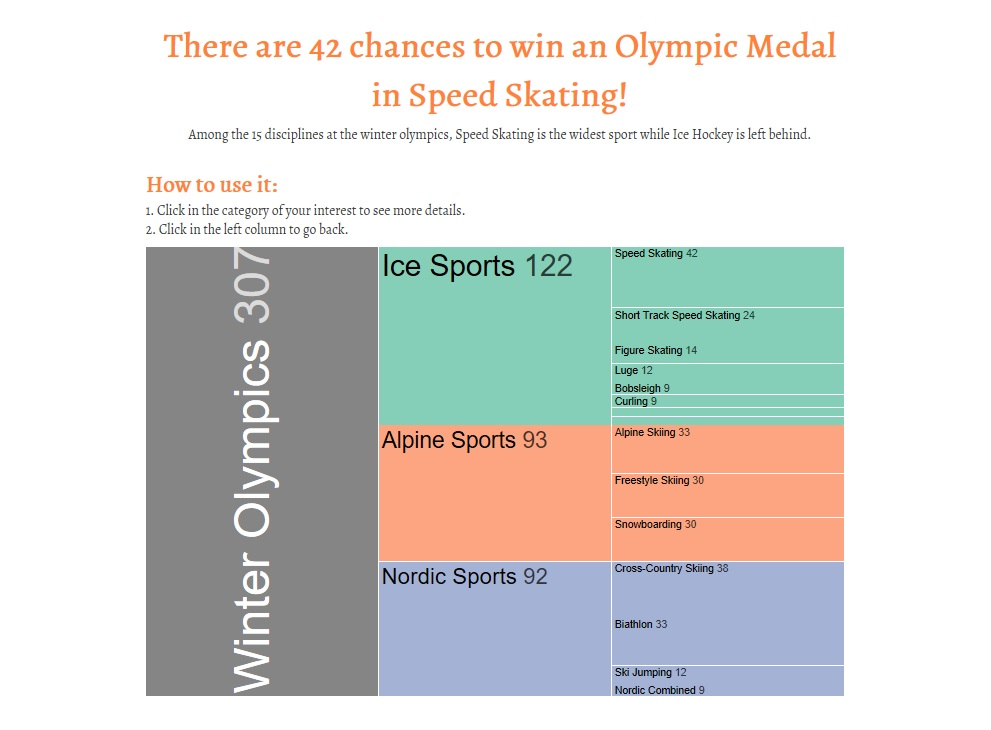
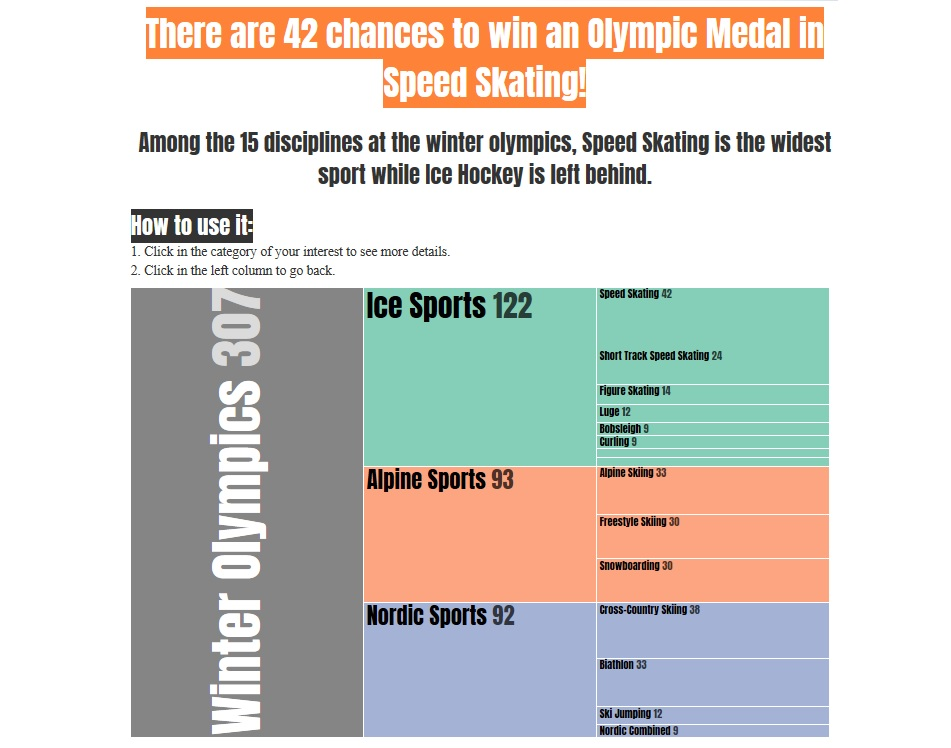
styling

Changed region(s): [[0.122, 0.0, 0.8843, 0.9945]]

diff --git a/index.html b/index.html
@@ -3,7 +3,7 @@
 <head>
 
 	<meta charset="UTF-8">
-	<title>Exportaciones de productos tradicionales a Estados Unidos</title>
+	<title>Winter Olympics Disciplines 2018</title>
 	<style type="text/css">
 		.general{			
 			font-family: 'Alegreya', serif;
@@ -80,20 +80,29 @@
 			font-weight: bold;
 			color: #ff8239;
 			font-size: 26px;
-			font-family: 'Alegreya', serif;
+			font-family: 'Anton', sans-serif;
 		}
 		
 		.titulo {
-			font-weight: bold;
-			font-family: 'Alegreya', serif;
+			font-weight: black;
+			font-family: 'Anton', sans-serif;
 			font-size: 46px;
-			color:  #ff8239;
+			color:  #ffffff;
+			background-color: #ff8239;
+		}
+		.subtitulo {
+			font-weight: black;
+			font-family: 'Anton', sans-serif;
+			font-size: 30px;
+			color:  #333333;
+			
 		}
 		.titulo2 {
-			font-weight: bold;
-			font-family: 'Alegreya', serif;
+			font-weight: black;
+			font-family: 'Anton', sans-serif;
 			font-size: 30px;
-			color:  #ff8239;
+			color:  #ffffff;
+			background-color: #333333;
 		}
 		.texto {
 			-webkit-column-count: 3; /* Chrome, Safari, Opera */
@@ -143,7 +152,7 @@
 
 		
 	</style>
-	<link href="https://fonts.googleapis.com/css?family=Alegreya" rel="stylesheet"> 
+	<link href="https://fonts.googleapis.com/css?family=Anton" rel="stylesheet"> 
 	<script type="text/javascript" src="https://d3js.org/d3.v5.min.js"></script>
 	<link rel="stylesheet" href="https://maxcdn.bootstrapcdn.com/bootstrap/3.3.7/css/bootstrap.min.css">
     <script src="https://maxcdn.bootstrapcdn.com/bootstrap/3.3.7/js/bootstrap.min.js"></script>
@@ -154,13 +163,14 @@
 <br/>
 <div class="text-center general">
 	<div class="row">
-		<div class="text-center col-md-offset-3 col-md-6">
-			<span class="titulo">¿Qué pasó con el TLC Colombia?</span>
-			<br/><h4>
-			Las exportaciones del Carbón y el Petróleo, dos de los productos más relevantes para Colombia han caído después del TLC.
-			
-			</h4>
-		<p>	Creado por: Camilo Espitia - Código: 200812115 - Login: jc.espitia912</p>
+		<div class="text-center  col-md-offset-2 col-md-8">
+			<span class="titulo">There are 42 chances to win an Olympic Medal in Speed Skating!</span>
+			<br/><span class="subtitulo">
+			Among the 15 disciplines at the winter olympics, Speed Skating is the widest sport while Ice Hockey is left behind.
+
+			</span>
+			<br/>
+			<p>	Created By: Camilo Espitia - Student ID: 200812115 - Login: jc.espitia912</p>
 		
 		</div>
 		
@@ -172,14 +182,14 @@
     <div class="col-md-offset-1 col-md-10" id="viz">
 			
 		<hr/>  
-			<span class="titulo2 texto2">Contexto</span>
+			<span class="titulo2 texto2">Context</span>
 			
 		
 			<p class="texto2">
 			En el año 2012, el Tratado de Libre Comercio entre los Estados Unidos y Colombia fue aprobado (Portafolio, 2018). Existían opiniones encontradas sobre sus ventajas y desventajas para el país. Uno de los principales argumentos hacía referencia a la historia de los tratados de Estados Unidos en dónde, el país norteamericano construía barreras arancelarias después de las firmas de los acuerdos, poniendo en desventaja a países con menor poder económico. Por ejemplo, en México fueron creados los subsidios para favorecer los productos del sector agrícola estadounidense, debilitando el sector local (López, 2011).
 			</p>
 			 
-			<span class="titulo2 texto2">Objetivo</span>
+			<span class="titulo2 texto2">Objective</span>
 		  
 			<p class="texto2">
 				En teoría, un tratado debería incrementar tanto la eficiencia como la tasa de crecimiento económico de un país.  Esta visualización tiene el objetivo de mostrarnos el antes y el después de las exportaciones de Colombia a Estados Unidos de los productos tradicionales como el Café, el Carbón, el Petróleo, los Derivados del Petróleo y el Ferroníquel, para ver si efectivamente el tratado de libre comercio incrementó las exportaciones o las disminuyó.
@@ -190,9 +200,9 @@
 		<div class="texto">  
 			  <span class="titulo2">WHY</span>
 			  
-			  <p><strong>Tarea principal</strong>
+			  <p><strong>Main Tasks</strong>
 			  <p><strong>T1. Summarize - Trends (Tendencia de la variación acumulada):</strong> Encontrar la tendencia creciente o descendiente de todas las exportaciones de los productos tradicionales Colombianos de las últimas decadas para evaluar el efecto del TLC firmado con Estados Unidos.
-			  <p><strong>Tareas secundarias</strong><br/>
+			  <p><strong>Secondary Tasks</strong><br/>
 			  <p><strong>T2. Identify - Extremes: </strong> Encontrar los años de mayor variación tanto positiva como negativa de cada producto para analizar posibles razones.
 			  <p><strong>T3. Identify - Trend (Variation):</strong> Identificar la tendencia de variación desde 1990 de la exportación de cada uno de los productos tradicionales.
 				
@@ -233,10 +243,10 @@
 	<div class="row">
 		<div class="text-center  col-md-12">
 			<span class="titulo">There are 42 chances to win an Olympic Medal in Speed Skating!</span>
-			<br/><h4>
+			<br/><br/><span class="subtitulo">
 			Among the 15 disciplines at the winter olympics, Speed Skating is the widest sport while Ice Hockey is left behind.
 
-			</h4>
+			</span>
 		</div>
 	</div>
 	</div>
@@ -256,7 +266,7 @@
 		.append('svg')
 		.attr('width', width)
 		.style('overflow', "hidden")
-        .style('font', "14px sans-serif")
+        .style('font', "14px sans-serif Anton")
 		.attr('height', height);
 
 		
@@ -317,6 +327,8 @@
 		  .style("user-select", "none")
 		  .attr("pointer-events", "none")
 		  .attr("font-size", d => textHeight(d))
+		  .attr("font-family",'Anton')
+		  //font-family: 'Anton', sans-serif;
 		  .attr("transform",  d => {
 			if (!d.depth) return "translate(100,600)rotate(270)"; //sino tiene padre gira
 			
@@ -412,7 +424,7 @@
 			return 14;
 		} else if (tamanio>60)
 		{
-			return 65;
+			return 73;
 		}
 		return tamanio;
 	  }
@@ -432,7 +444,7 @@
 
 	  <span class="titulo2 texto2">Insights:</span>
 	  <p >
-	  La visualización nos permite obtener los siguientes insights: 
+	  The visualization presents us the following insights: 
 		<ul>
 			<li class="texto2">La variación general de las exportaciones de los productos tradicionales comenzó a disminuir año tras año después de la firma del TLC con Estados Unidos, encontrando el pico más bajo en el año 2015. Desde entonces la disminución de las exportaciones se ha detenido pero apenas hasta dejar de disminuir año tras año.</li>
 			<li class="texto2">El Carbón y el Petróleo también encontraron sus picos más bajos en el año 2015 y en general muestran una tendencia decreciente desde 2012, cuando fue aprobado el TLC.</li>
